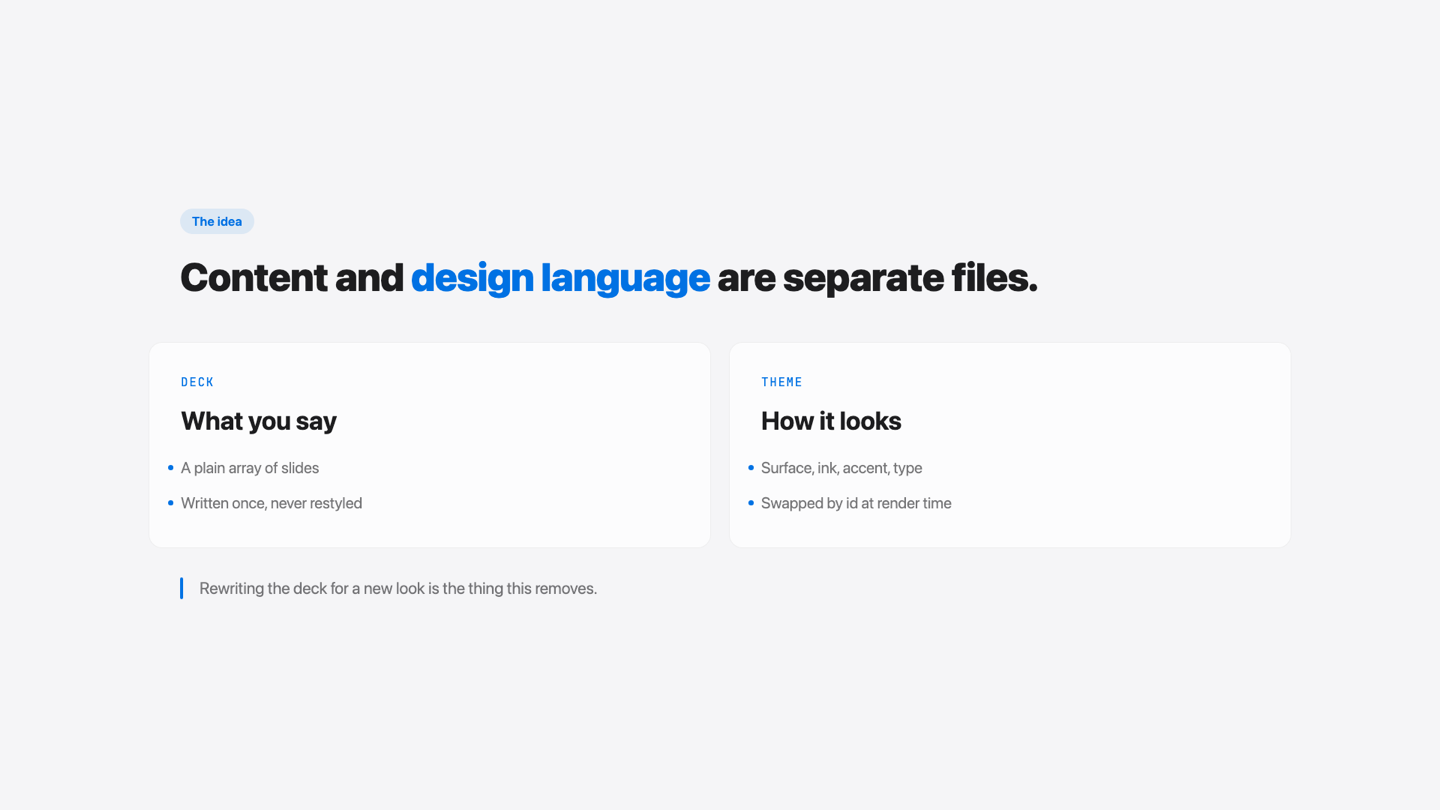
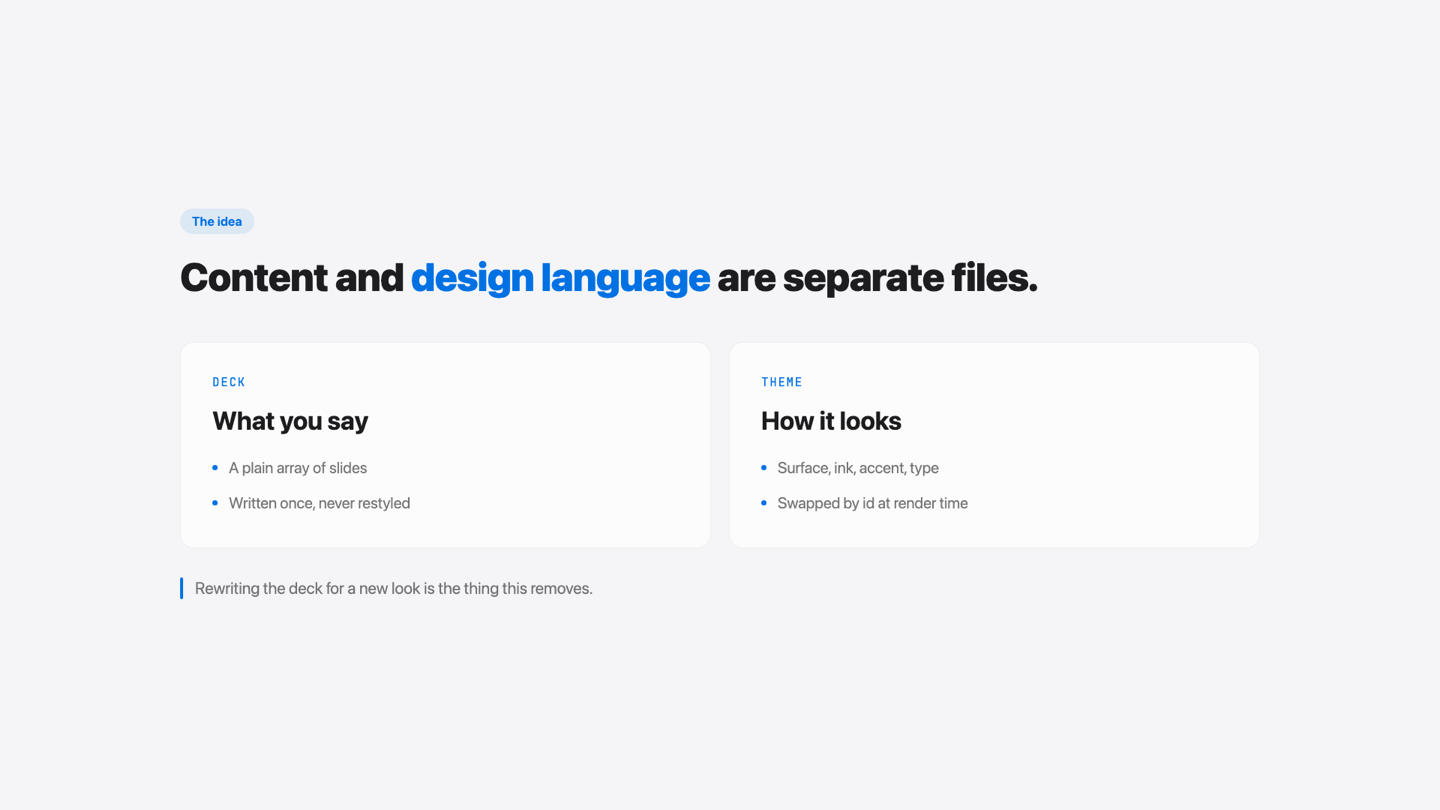
fix(kit): one alignment line — badge border, title and card border
The badge is a pill, so its padding was pushing the label 18px past the
title. Cards were bled left by their own padding, putting their border
outside the title instead of on it.

- badge, title and every card border now sit on the same x
- card text sits one CARD_PAD inside that line
- a list's bullet dot starts where the card's heading starts
- quote and caption bars stand on the line; their text follows at RAIL
- quote bar cleared from the card border (16 -> 26px)
- compare cells share the card's horizontal padding

Screenshots retaken for all 17 themes.

diff --git a/src/lean-deck/kit.tsx b/src/lean-deck/kit.tsx
@@ -7,16 +7,17 @@ export const CODE_BG = 'rgba(125,128,140,0.14)';
 
 /**
  * 조판 규칙 (2026-08-25)
- *  ① 정렬선 — 태그·제목·카드 안 글자가 모두 같은 x(정렬선)에서 시작한다.
- *     카드는 자기 padding 만큼 정렬선 왼쪽으로 나간다(bleed).
- *     인용·꼬리말은 '인용 표시(바)부터' 시작한다 — 바가 정렬선에 서고 글자는 그 뒤(RAIL).
- *  ② 깊이 — 양각(t.card)은 표면에 놓인 실체, 음각(t.cardHi)은 안에 담긴 것
+ *  ① 정렬선 — 뱃지 테두리·헤더 타이틀·카드의 왼쪽 테두리가 같은 x(정렬선)에 선다.
+ *     카드 안의 글자는 카드 텍스트 라인(정렬선 + PAD)에 선다.
+ *  ② 표시는 글자를 밀지 않는다 — 불릿 점은 카드 큰 글씨의 왼쪽에서 시작하고,
+ *     인용·꼬리말의 바는 카드 텍스트 라인 안쪽 여백에 걸린다. 글자는 언제나 라인 위.
+ *  ③ 깊이 — 양각(t.card)은 표면에 놓인 실체, 음각(t.cardHi)은 안에 담긴 것
  *     (인용문·이전 상태·아이콘 그릇). 깊이로 강조하지 않는다.
- *  ③ 강조 — 카드에 테두리·깊이 차이를 주지 않는다. 같은 층의 카드는 같은 모양이다.
+ *  ④ 강조 — 카드에 테두리·깊이 차이를 주지 않는다. 같은 층의 카드는 같은 모양이다.
  *     구분이 필요하면 라벨색·글자 굵기·문장 자체로 한다.
  */
-export const RAIL = 26;
-export const bleed = (pad: number) => ({ marginLeft: -pad, marginRight: -pad });
+export const RAIL = 16;   // 인용 표시(바)와 글자 사이. 바는 카드 테두리에서 CARD_PAD-RAIL 떨어진다
+export const CARD_PAD = 42;   // 모든 카드의 안쪽 여백. 카드 안 글자 = 정렬선 + CARD_PAD
 
 export function Base({ t, center, wide, children }: { t: Theme; center?: boolean; wide?: boolean; children: React.ReactNode }) {
   // 한글: 음절 단위 줄바꿈 방지. 하위 요소가 상속받는다
@@ -63,7 +64,7 @@ export function Head({ t, eyebrow, pre, accent, post, size = 52 }: { t: Theme; e
 
 export function Tail({ t, children }: { t: Theme; children: React.ReactNode }) {
   return (
-    <div style={{ position: 'relative', marginTop: 36, paddingLeft: RAIL }}>
+    <div style={{ position: 'relative', marginTop: 36, paddingLeft: RAIL + 4 }}>
       <div style={{ position: 'absolute', left: 0, top: 3, bottom: 3, minHeight: 26, width: 4, borderRadius: 4, background: t.bar }} />
       <p style={{ fontSize: 22, lineHeight: 1.6, margin: 0, color: t.ink.soft }}>{children}</p>
     </div>
@@ -72,21 +73,21 @@ export function Tail({ t, children }: { t: Theme; children: React.ReactNode }) {
 
 // hi 는 더 이상 카드 외형을 바꾸지 않는다 (기존 덱들이 넘겨 오므로 프로프만 유지)
 export const Card = ({ t, inset, style, children }: { t: Theme; hi?: boolean; inset?: boolean; style?: React.CSSProperties; children: React.ReactNode }) => (
-  <div style={{ boxSizing: 'border-box', padding: 42, ...(inset ? t.cardHi : t.card), ...style }}>{children}</div>
+  <div style={{ boxSizing: 'border-box', padding: CARD_PAD, ...(inset ? t.cardHi : t.card), ...style }}>{children}</div>
 );
 
 // N열 카드 (idx 라벨 + 제목 + 불릿 rows). hi로 강조 열 지정
 export function Cols({ t, items }: { t: Theme; items: { idx?: string; title: string; rows?: string[]; hi?: boolean; mono0?: boolean }[] }) {
   return (
-    <div style={{ display: 'grid', gridTemplateColumns: `repeat(${items.length},1fr)`, gap: 24, alignItems: 'stretch', ...bleed(42) }}>
+    <div style={{ display: 'grid', gridTemplateColumns: `repeat(${items.length},1fr)`, gap: 24, alignItems: 'stretch' }}>
       {items.map((c, i) => (
         <Card key={i} t={t} hi={c.hi}>
           {c.idx && <p style={{ fontFamily: t.mono, fontSize: 16, letterSpacing: '.1em', margin: '0 0 18px', color: t.accent }}>{c.idx}</p>}
           <p style={{ fontSize: 34, fontWeight: 700, margin: '0 0 22px', color: t.ink.strong, wordBreak: 'keep-all', lineHeight: 1.4 }}>{c.title}</p>
           <div style={{ display: 'flex', flexDirection: 'column', gap: 13 }}>
             {(c.rows ?? []).map((r, j) => (
-              <div key={j} style={{ position: 'relative' }}>
-                <span style={{ position: 'absolute', left: -17, top: 13, width: 7, height: 7, borderRadius: '50%', background: t.accent }} />
+              <div key={j} style={{ position: 'relative', paddingLeft: 22 }}>
+                <span style={{ position: 'absolute', left: 0, top: 13, width: 7, height: 7, borderRadius: '50%', background: t.accent }} />
                 <span style={{ fontSize: 21, lineHeight: 1.6, color: t.ink.soft, wordBreak: 'keep-all', fontFamily: c.mono0 && j === 0 ? t.mono : t.font }}>{r}</span>
               </div>
             ))}
@@ -100,7 +101,7 @@ export function Cols({ t, items }: { t: Theme; items: { idx?: string; title: str
 // 가로 N단계 흐름 (n, title, desc, code?, hi?)
 export function Flow({ t, steps }: { t: Theme; steps: { n?: string | number; title: string; desc?: string; code?: string; hi?: boolean }[] }) {
   return (
-    <div style={{ display: 'grid', gridTemplateColumns: `repeat(${steps.length},1fr)`, gap: 20, alignItems: 'stretch', ...bleed(42) }}>
+    <div style={{ display: 'grid', gridTemplateColumns: `repeat(${steps.length},1fr)`, gap: 20, alignItems: 'stretch' }}>
       {steps.map((s, i) => (
         <Card key={i} t={t} hi={s.hi} style={{ display: 'flex', flexDirection: 'column' }}>
           <div style={{ display: 'flex', alignItems: 'center', gap: 12, marginBottom: 14 }}>
@@ -118,7 +119,7 @@ export function Flow({ t, steps }: { t: Theme; steps: { n?: string | number; tit
 // 체크리스트 (2열 그리드). item: {title, desc}
 export function Checklist({ t, items, cols = 2 }: { t: Theme; items: { title: string; desc?: string }[]; cols?: number }) {
   return (
-    <div style={{ display: 'grid', gridTemplateColumns: `repeat(${cols},1fr)`, gap: 22, ...bleed(36) }}>
+    <div style={{ display: 'grid', gridTemplateColumns: `repeat(${cols},1fr)`, gap: 22 }}>
       {items.map((it, i) => (
         <Card key={i} t={t} style={{ padding: 36, display: 'flex', alignItems: 'flex-start', gap: 20 }}>
           <div style={{ width: 32, height: 32, borderRadius: 10, flexShrink: 0, marginTop: 2, display: 'flex', alignItems: 'center', justifyContent: 'center', ...t.iconBox }}>
@@ -148,11 +149,11 @@ export function BigStat({ t, value, label, sub }: { t: Theme; value: string; lab
 // 풀폭 배너 (info=accent bar / warn=경고색)
 export function Banner({ t, kind = 'info', children }: { t: Theme; kind?: 'info' | 'warn'; children: React.ReactNode }) {
   const warn = kind === 'warn';
-  const PAD = 46;
+  const PAD = CARD_PAD;
   return (
-    <div style={{ position: 'relative', boxSizing: 'border-box', padding: `40px ${PAD}px`, ...bleed(PAD), ...(warn ? { ...t.card, ...t.warn, borderRadius: (t.card.borderRadius as number) ?? 14 } : t.card) }}>
-      <div style={{ position: 'absolute', left: PAD, top: 40, bottom: 40, width: 4, borderRadius: 4, background: warn ? (t.warn.color ?? t.bar) : t.bar }} />
-      <p style={{ paddingLeft: RAIL, fontSize: 31, lineHeight: 1.55, margin: 0, color: warn ? (t.warn.color ?? t.ink.strong) : t.ink.strong, wordBreak: 'keep-all', fontWeight: 500 }}>{children}</p>
+    <div style={{ position: 'relative', boxSizing: 'border-box', padding: `40px ${PAD}px`, ...(warn ? { ...t.card, ...t.warn, borderRadius: (t.card.borderRadius as number) ?? 14 } : t.card) }}>
+      <div style={{ position: 'absolute', left: PAD - RAIL, top: 40, bottom: 40, width: 4, borderRadius: 4, background: warn ? (t.warn.color ?? t.bar) : t.bar }} />
+      <p style={{ fontSize: 31, lineHeight: 1.55, margin: 0, color: warn ? (t.warn.color ?? t.ink.strong) : t.ink.strong, wordBreak: 'keep-all', fontWeight: 500 }}>{children}</p>
     </div>
   );
 }
@@ -160,17 +161,17 @@ export function Banner({ t, kind = 'info', children }: { t: Theme; kind?: 'info'
 // Before / After 2열 비교표 (rows: {label, before, after})
 export function Compare({ t, beforeLabel = '예전', afterLabel = '지금', rows }: { t: Theme; beforeLabel?: string; afterLabel?: string; rows: { label: string; before: string; after: string }[] }) {
   return (
-    <div style={{ display: 'flex', flexDirection: 'column', gap: 18, ...bleed(30) }}>
+    <div style={{ display: 'flex', flexDirection: 'column', gap: 18 }}>
       <div style={{ display: 'grid', gridTemplateColumns: '250px 1fr 1fr', gap: 20 }}>
         <span />
-        <span style={{ paddingLeft: 30, fontSize: 18, fontWeight: 600, color: t.ink.mute }}>{beforeLabel}</span>
-        <span style={{ paddingLeft: 30, fontSize: 18, fontWeight: 700, color: t.accent }}>{afterLabel}</span>
+        <span style={{ fontSize: 18, fontWeight: 600, color: t.ink.mute }}>{beforeLabel}</span>
+        <span style={{ fontSize: 18, fontWeight: 700, color: t.accent }}>{afterLabel}</span>
       </div>
       {rows.map((r, i) => (
         <div key={i} style={{ display: 'grid', gridTemplateColumns: '250px 1fr 1fr', gap: 20, alignItems: 'stretch' }}>
-          <div style={{ display: 'flex', alignItems: 'center', paddingLeft: 30, fontSize: 23, fontWeight: 600, color: t.ink.soft, wordBreak: 'keep-all' }}>{r.label}</div>
-          <Card t={t} inset style={{ padding: 30, display: 'flex', alignItems: 'center' }}><span style={{ fontSize: 22, lineHeight: 1.5, color: t.ink.mute, wordBreak: 'keep-all' }}>{r.before}</span></Card>
-          <Card t={t} style={{ padding: 30, display: 'flex', alignItems: 'center' }}><span style={{ fontSize: 22, lineHeight: 1.5, color: t.ink.strong, fontWeight: 600, wordBreak: 'keep-all' }}>{r.after}</span></Card>
+          <div style={{ display: 'flex', alignItems: 'center', fontSize: 23, fontWeight: 600, color: t.ink.soft, wordBreak: 'keep-all' }}>{r.label}</div>
+          <Card t={t} inset style={{ padding: `30px ${CARD_PAD}px`, display: 'flex', alignItems: 'center' }}><span style={{ fontSize: 22, lineHeight: 1.5, color: t.ink.mute, wordBreak: 'keep-all' }}>{r.before}</span></Card>
+          <Card t={t} style={{ padding: `30px ${CARD_PAD}px`, display: 'flex', alignItems: 'center' }}><span style={{ fontSize: 22, lineHeight: 1.5, color: t.ink.strong, fontWeight: 600, wordBreak: 'keep-all' }}>{r.after}</span></Card>
         </div>
       ))}
     </div>

diff --git a/src/lean-deck/DemoDeck.tsx b/src/lean-deck/DemoDeck.tsx
@@ -1,14 +1,14 @@
 'use client';
 import React from 'react';
 import type { Theme } from './themes';
-import { Base, Statement, Head, Tail, Cols, Flow, Checklist, Compare, Banner, BigStat, Card, bleed } from './kit';
+import { Base, Statement, Head, Tail, Cols, Flow, Checklist, Compare, Banner, BigStat, Card } from './kit';
 
 export type Slide = { title: string; render: (t: Theme) => React.JSX.Element };
 
 /** 세 칸짜리 형식 카드 — Card 를 직접 조립하는 예 */
 function Triptych({ t, cells }: { t: Theme; cells: [string, string][] }) {
   return (
-    <div style={{ display: 'flex', gap: 24, alignItems: 'stretch', ...bleed(42) }}>
+    <div style={{ display: 'flex', gap: 24, alignItems: 'stretch' }}>
       {cells.map(([label, body]) => (
         <Card key={label} t={t} style={{ flex: 1 }}>
           <div style={{ fontFamily: t.mono, fontSize: 17, letterSpacing: '.1em', color: t.ink.mute, marginBottom: 20 }}>{label}</div>
@@ -74,9 +74,9 @@ export const demoSlides: Slide[] = [
     title: 'Alignment',
     render: (t) => (
       <Base t={t}>
-        <Head t={t} eyebrow="One alignment line" pre="Tag, title and card text all start at" accent="the same x" post="." size={46} />
-        <Banner t={t}>Quotes and captions begin at the accent bar, not after it.</Banner>
-        <Tail t={t}>Cards bleed left by their own padding so their text lands on the line.</Tail>
+        <Head t={t} eyebrow="One alignment line" pre="Badge, title and card border all sit on" accent="the same x" post="." size={46} />
+        <Banner t={t}>Quotes and captions begin at their accent bar, never after it.</Banner>
+        <Tail t={t}>Cards sit on the line; the text inside them sits one CARD_PAD further in.</Tail>
       </Base>
     ),
   },
@@ -99,8 +99,8 @@ export const demoSlides: Slide[] = [
     render: (t) => (
       <Base t={t} wide>
         <Head t={t} eyebrow="Composing by hand" pre="Card is the primitive;" accent="the rest is layout" post="." size={48} />
-        <Triptych t={t} cells={[['SURFACE', 'Card'], ['RHYTHM', 'flex or grid'], ['BLEED', 'bleed(padding)']]} />
-        <Tail t={t}>bleed() pulls a card group left so its text keeps the alignment line.</Tail>
+        <Triptych t={t} cells={[['SURFACE', 'Card'], ['RHYTHM', 'flex or grid'], ['INSET', 'CARD_PAD']]} />
+        <Tail t={t}>Cards sit on the alignment line; their text sits one CARD_PAD inside it.</Tail>
       </Base>
     ),
   },

diff --git a/README.md b/README.md
@@ -132,8 +132,8 @@ slides[0].render(THEMES.brutalism);
 | `Card` | The primitive. Compose your own layouts with it. |
 | `Tag` `Accent` `Warn` | Inline pieces. |
 
-Helpers: `bleed(padding)` pulls a card group left by its own padding so the card *text* keeps
-the alignment line; `RAIL` is the distance from the alignment line to the text of a quote or caption.
+Constants: `CARD_PAD` is the inset from a card's border to its text; `RAIL` is the gap between an
+accent bar and the text that follows it.
 
 ![components](docs/components/slide-7.png)
 
@@ -141,9 +141,10 @@ the alignment line; `RAIL` is the distance from the alignment line to the text o
 
 ## Three rules the kit enforces
 
-**One alignment line.** The eyebrow tag, the title, the text inside every card, and the accent
-bar of quotes and captions all start at the same x. Cards bleed left by their own padding
-so their content lands on the line rather than their corner.
+**One alignment line.** The eyebrow badge's border, the title, every card's left border, and the
+accent bar of a caption all sit at the same x. Inside a card, the text sits one `CARD_PAD`
+further in — and the bullet dot of a list starts where that text starts, so nothing is nudged
+off the line by a marker.
 
 ![alignment](docs/components/slide-4.png)
 
